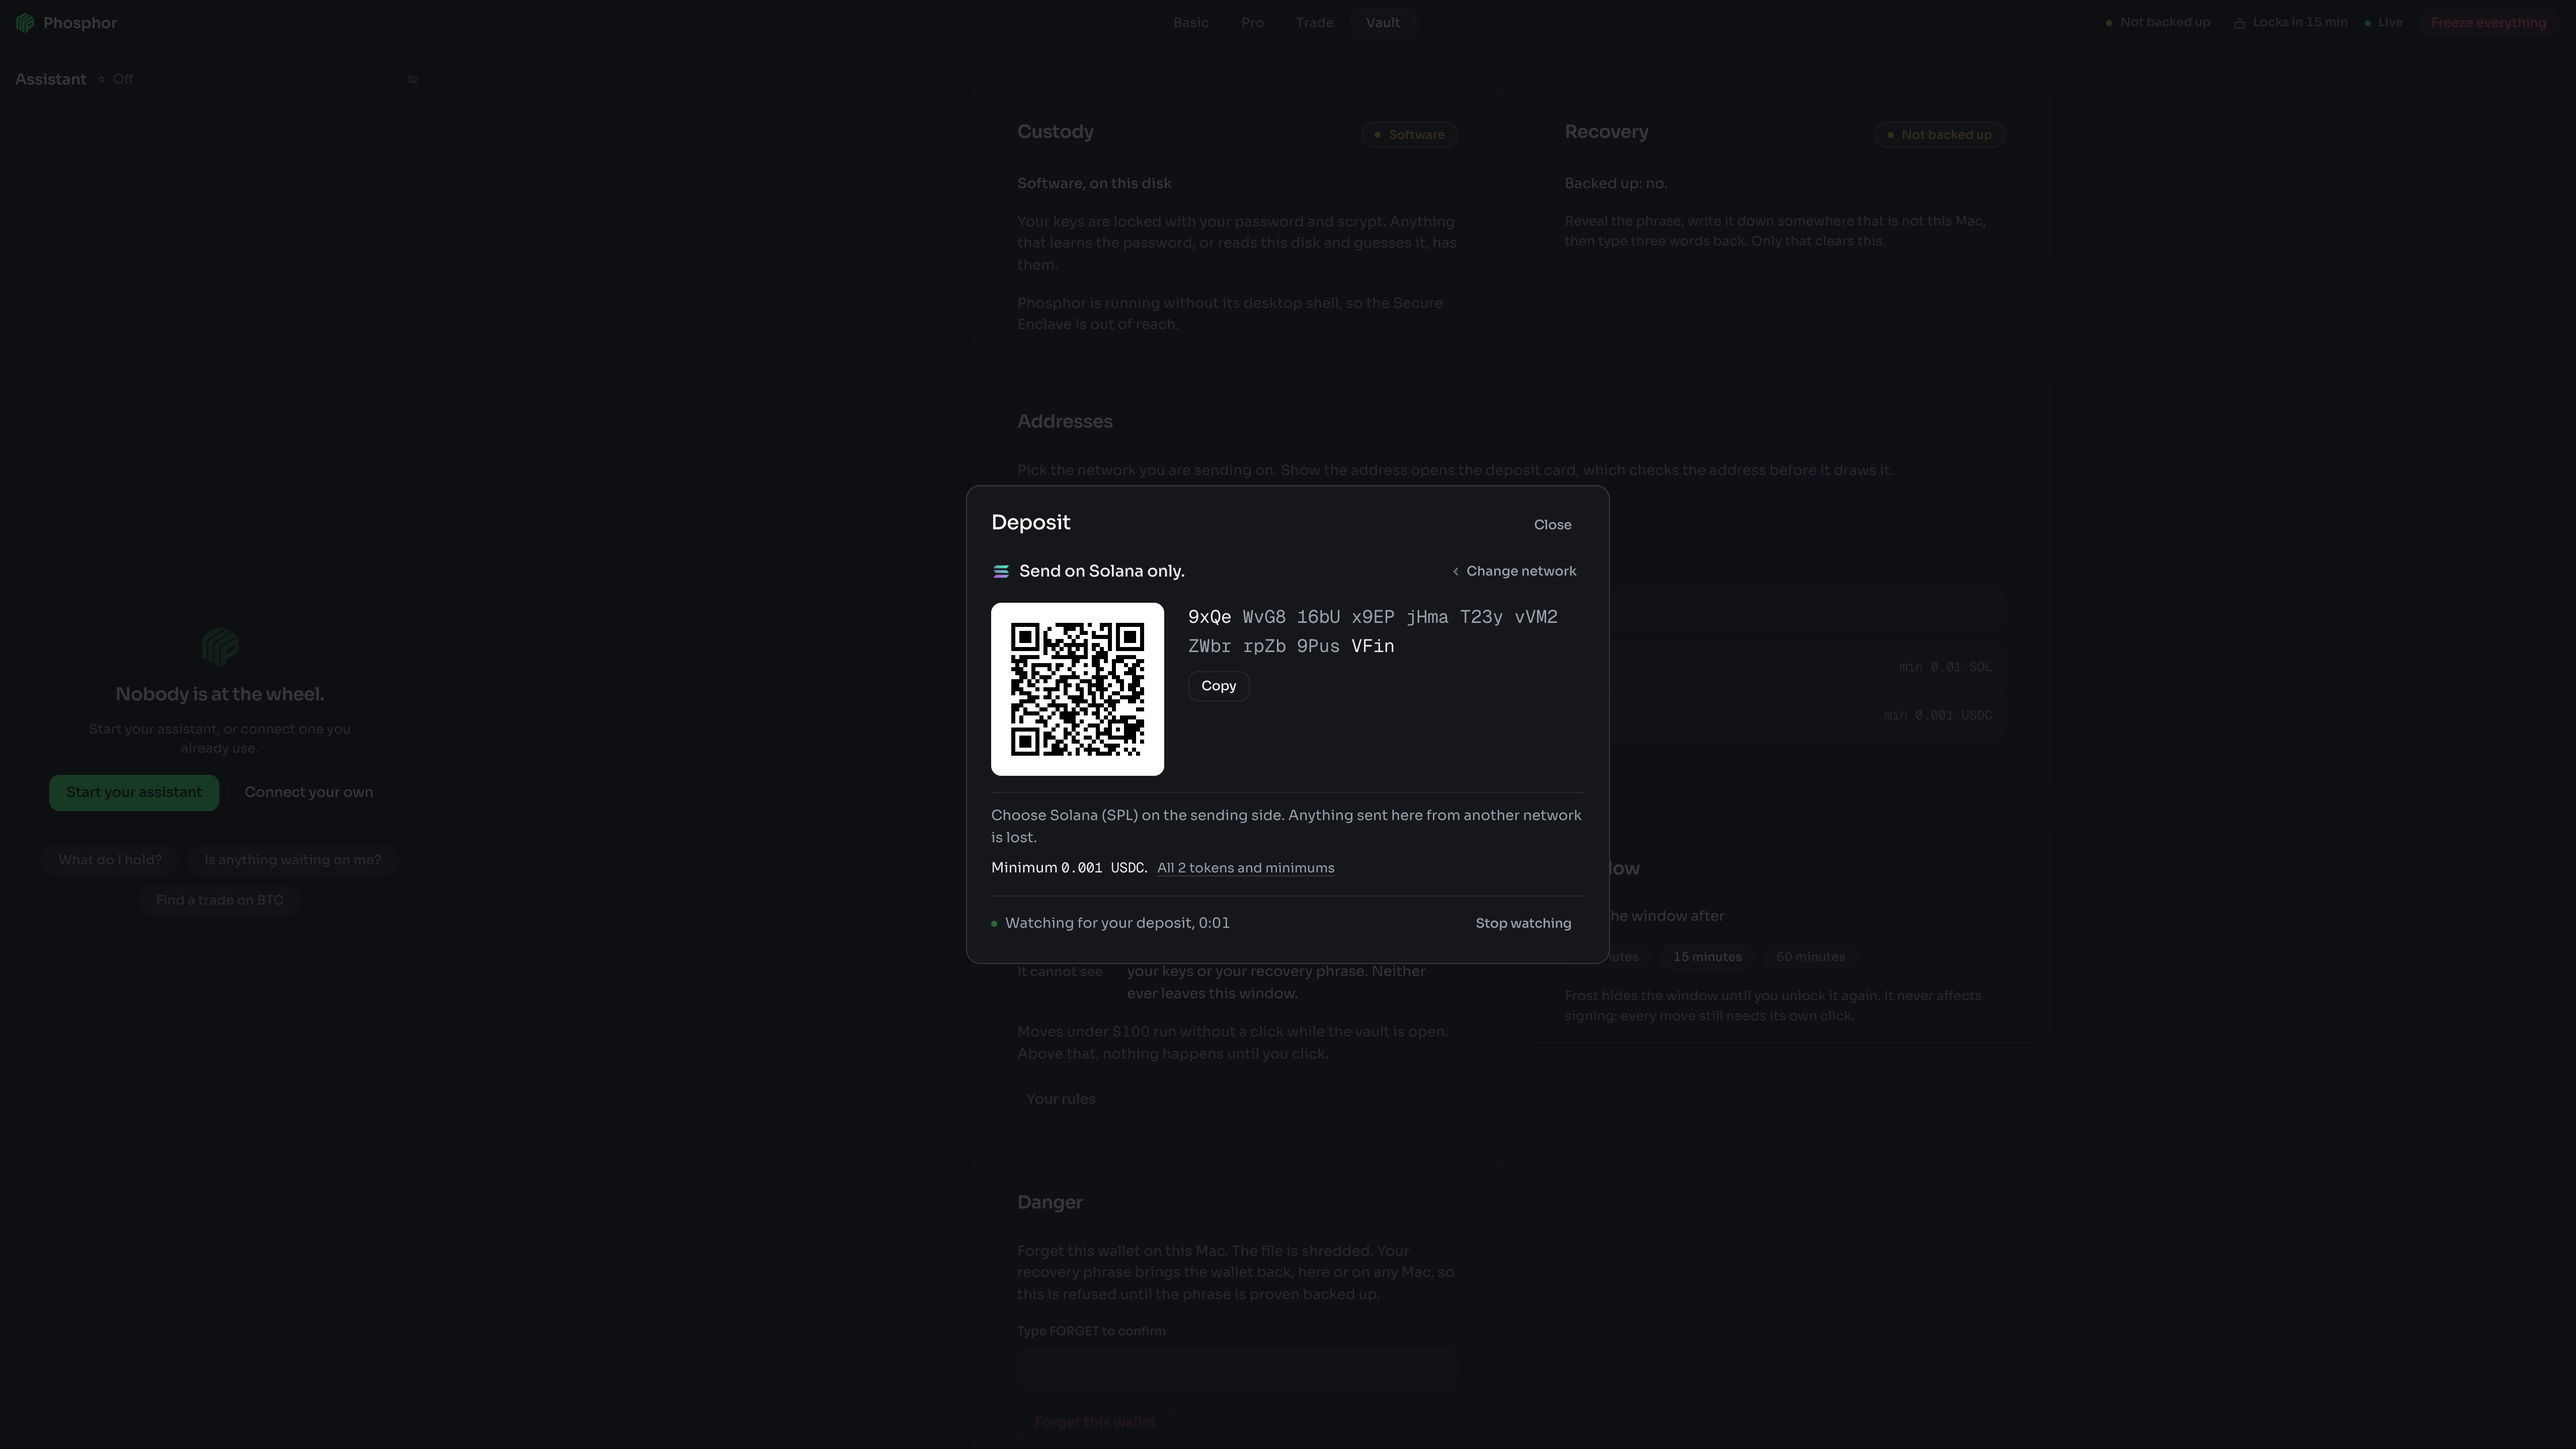
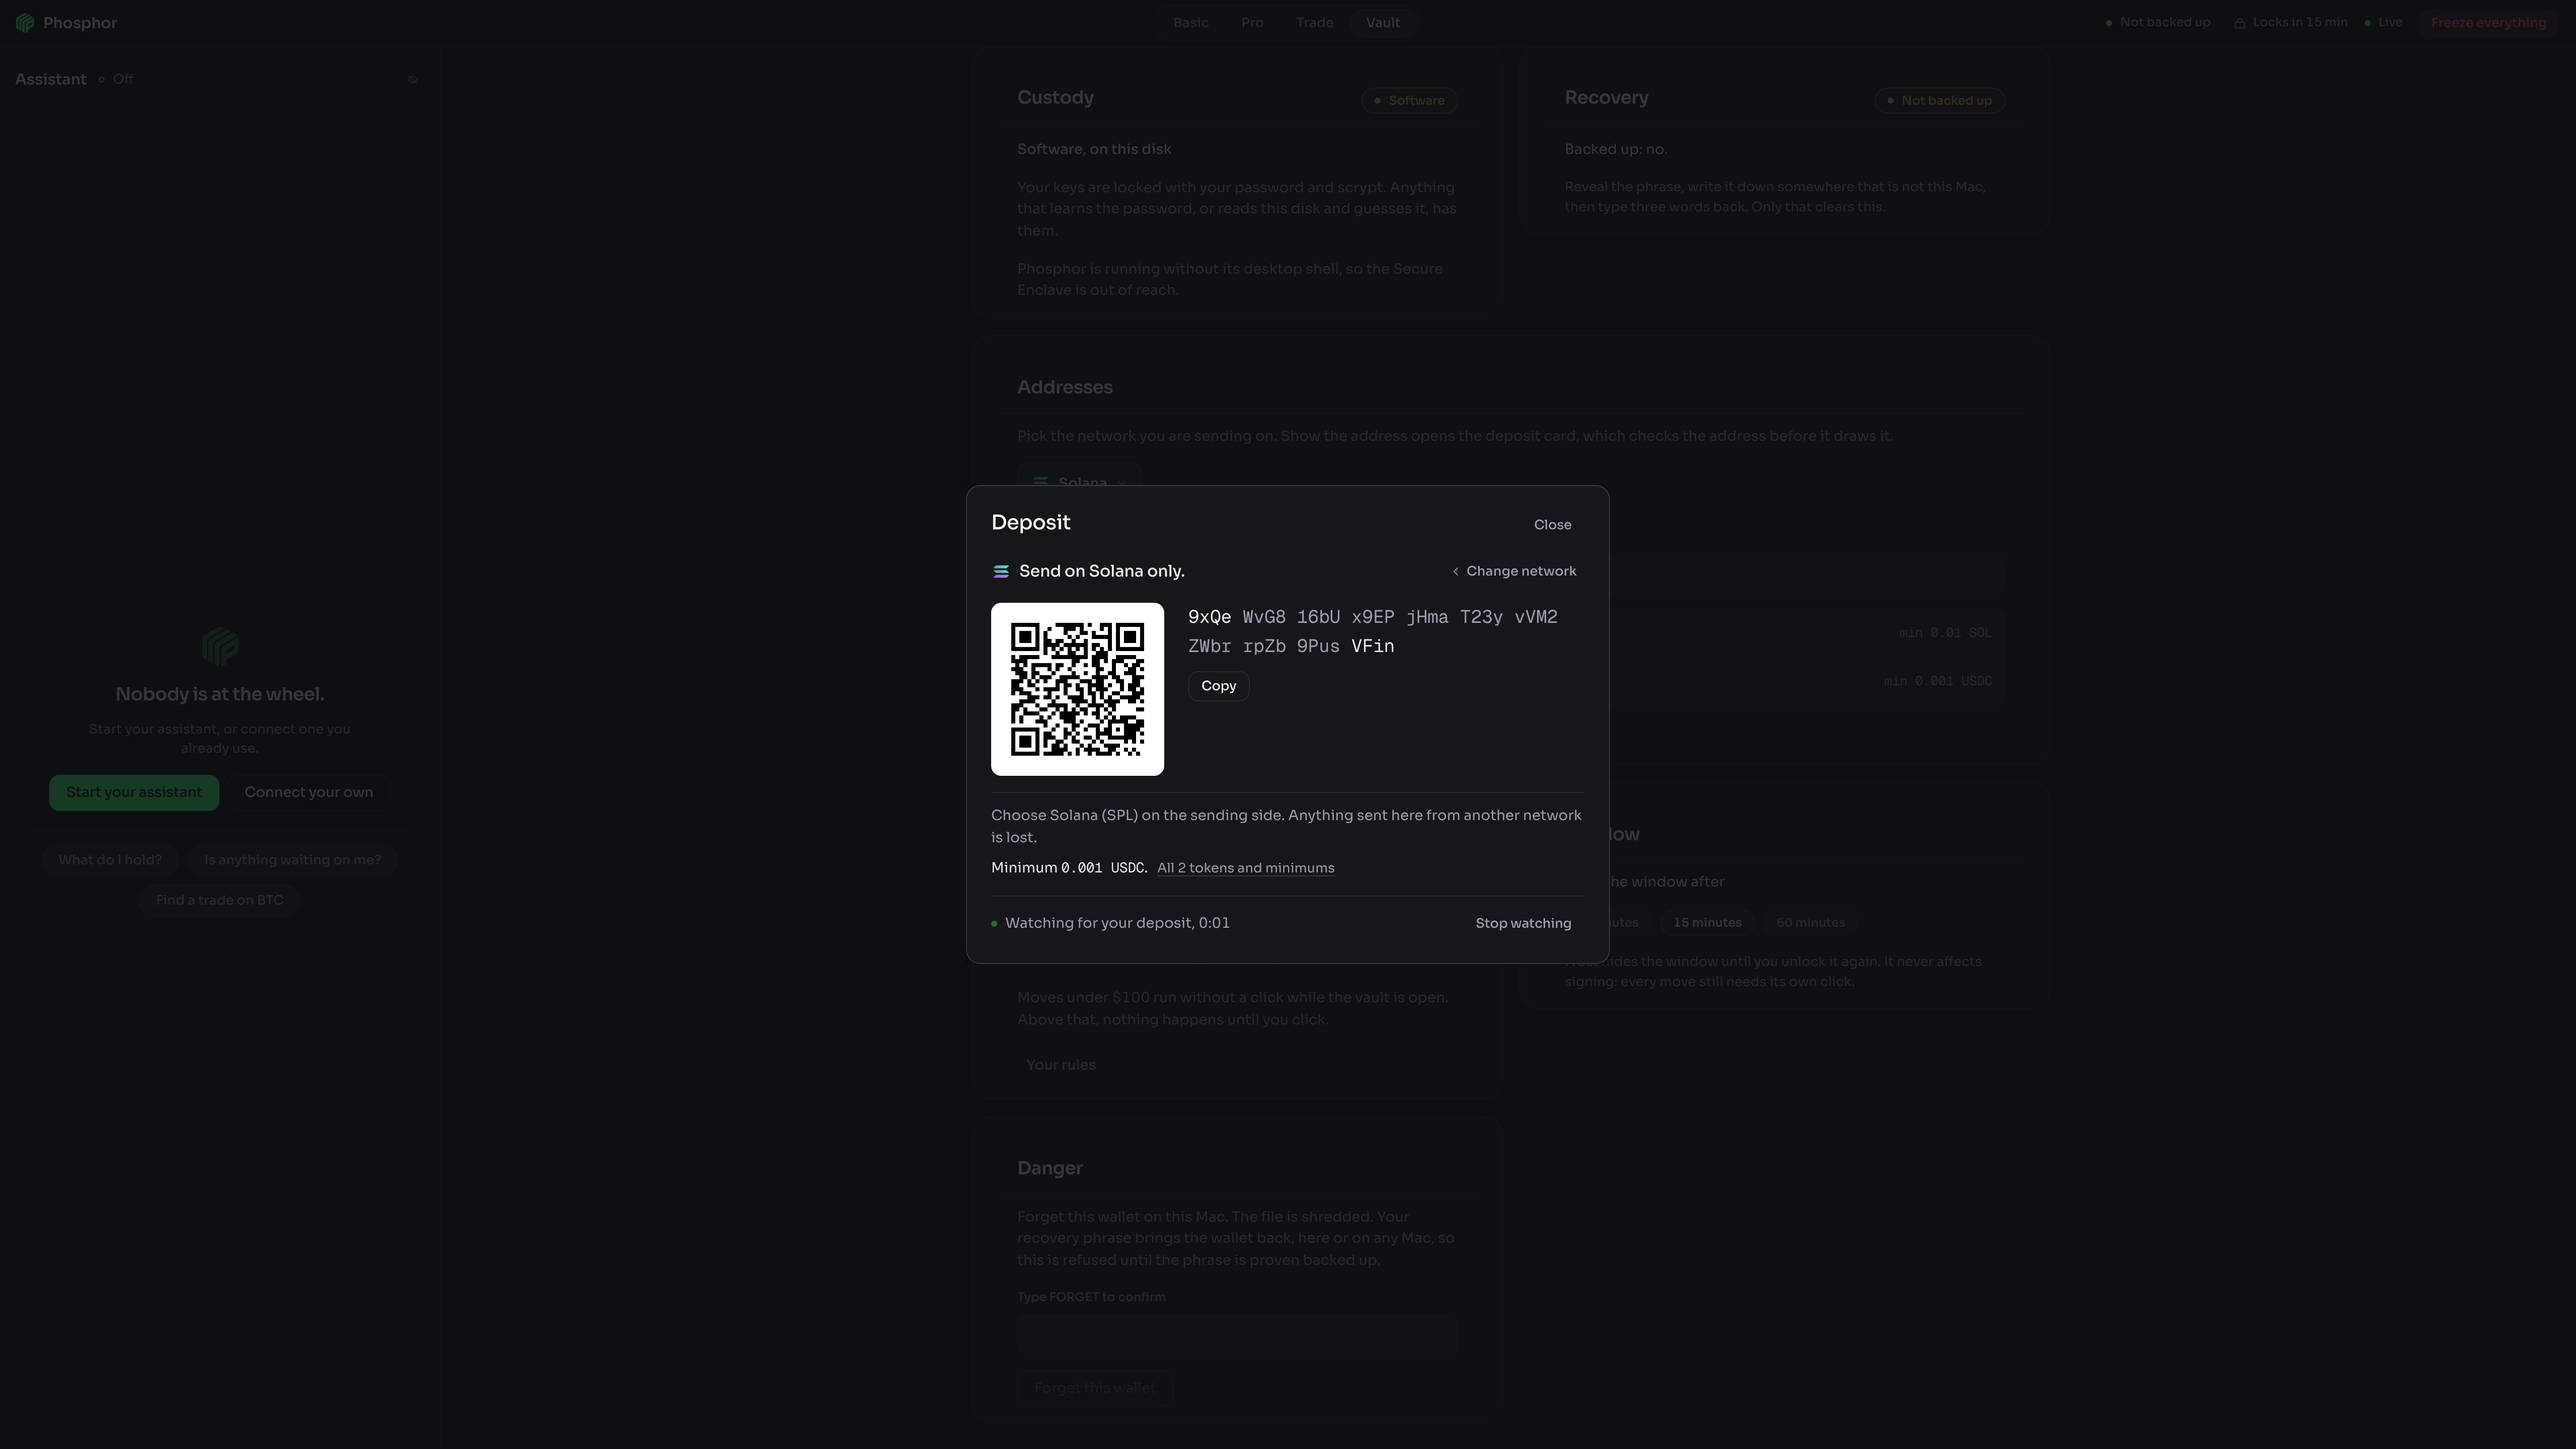
The proof puts the Addresses card at the top of the world before the developer picture, so the 1280 x 800 shot holds the contract rows

diff --git a/scripts/deposit-proof.ts b/scripts/deposit-proof.ts
@@ -232,10 +232,18 @@ async function main(): Promise<void> {
       await page.waitForSelector('#view-vault .token-row', { timeout: 20_000 });
       await sleep(400);
       await shoot('vault');
+      // The Addresses card at the top of the world for the next two, because at 1280 x 800
+      // the first row of cards fills the screen and the developer rows sit under it.
+      const showAddresses = async (): Promise<void> => {
+        await page.evaluate('document.querySelector(\'#view-vault .panel[data-surface="addresses"]\').scrollIntoView({ block: "start" })');
+        await sleep(150);
+      };
       await page.evaluate('window.PhosphorDev.set(true)');
+      await showAddresses();
       await sleep(300);
       await shoot('vault-dev');
       await page.evaluate('window.PhosphorDev.set(false)');
+      await showAddresses();
       await page.click('#view-vault .netsel');
       await page.waitForSelector('#view-vault .netsel-option[data-network="sol"]', { timeout: 5_000 });
       await sleep(250);
